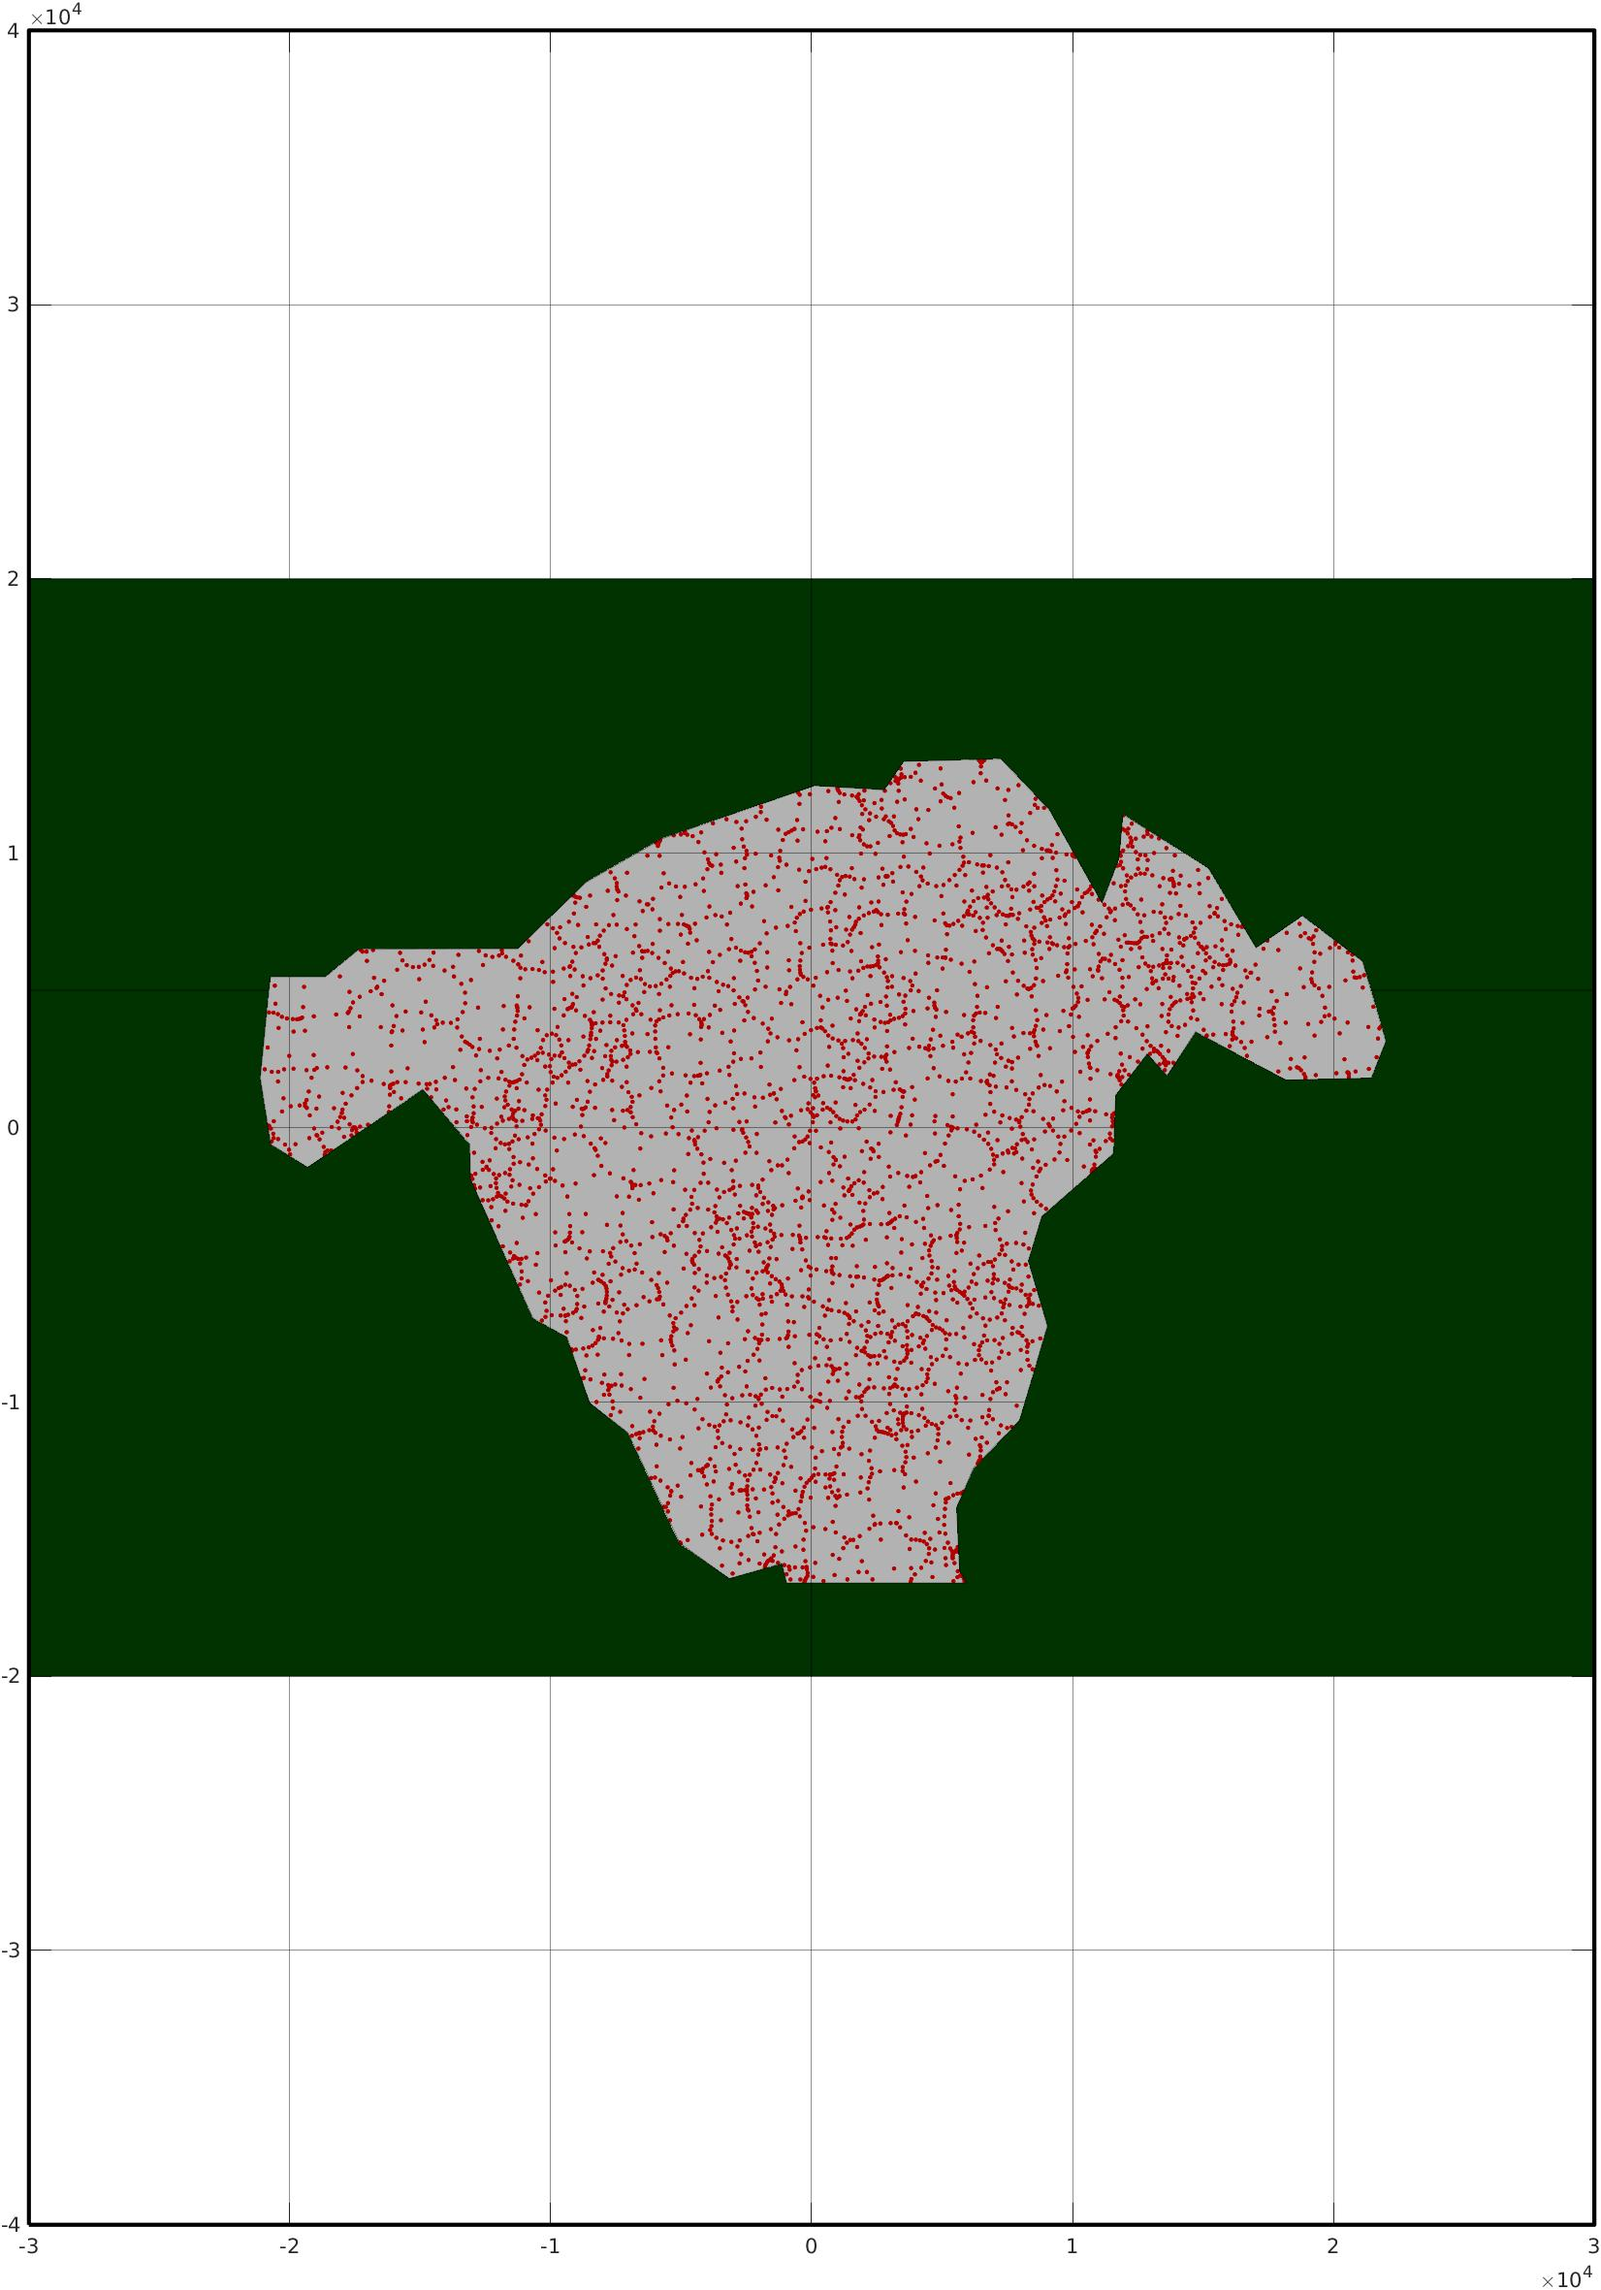
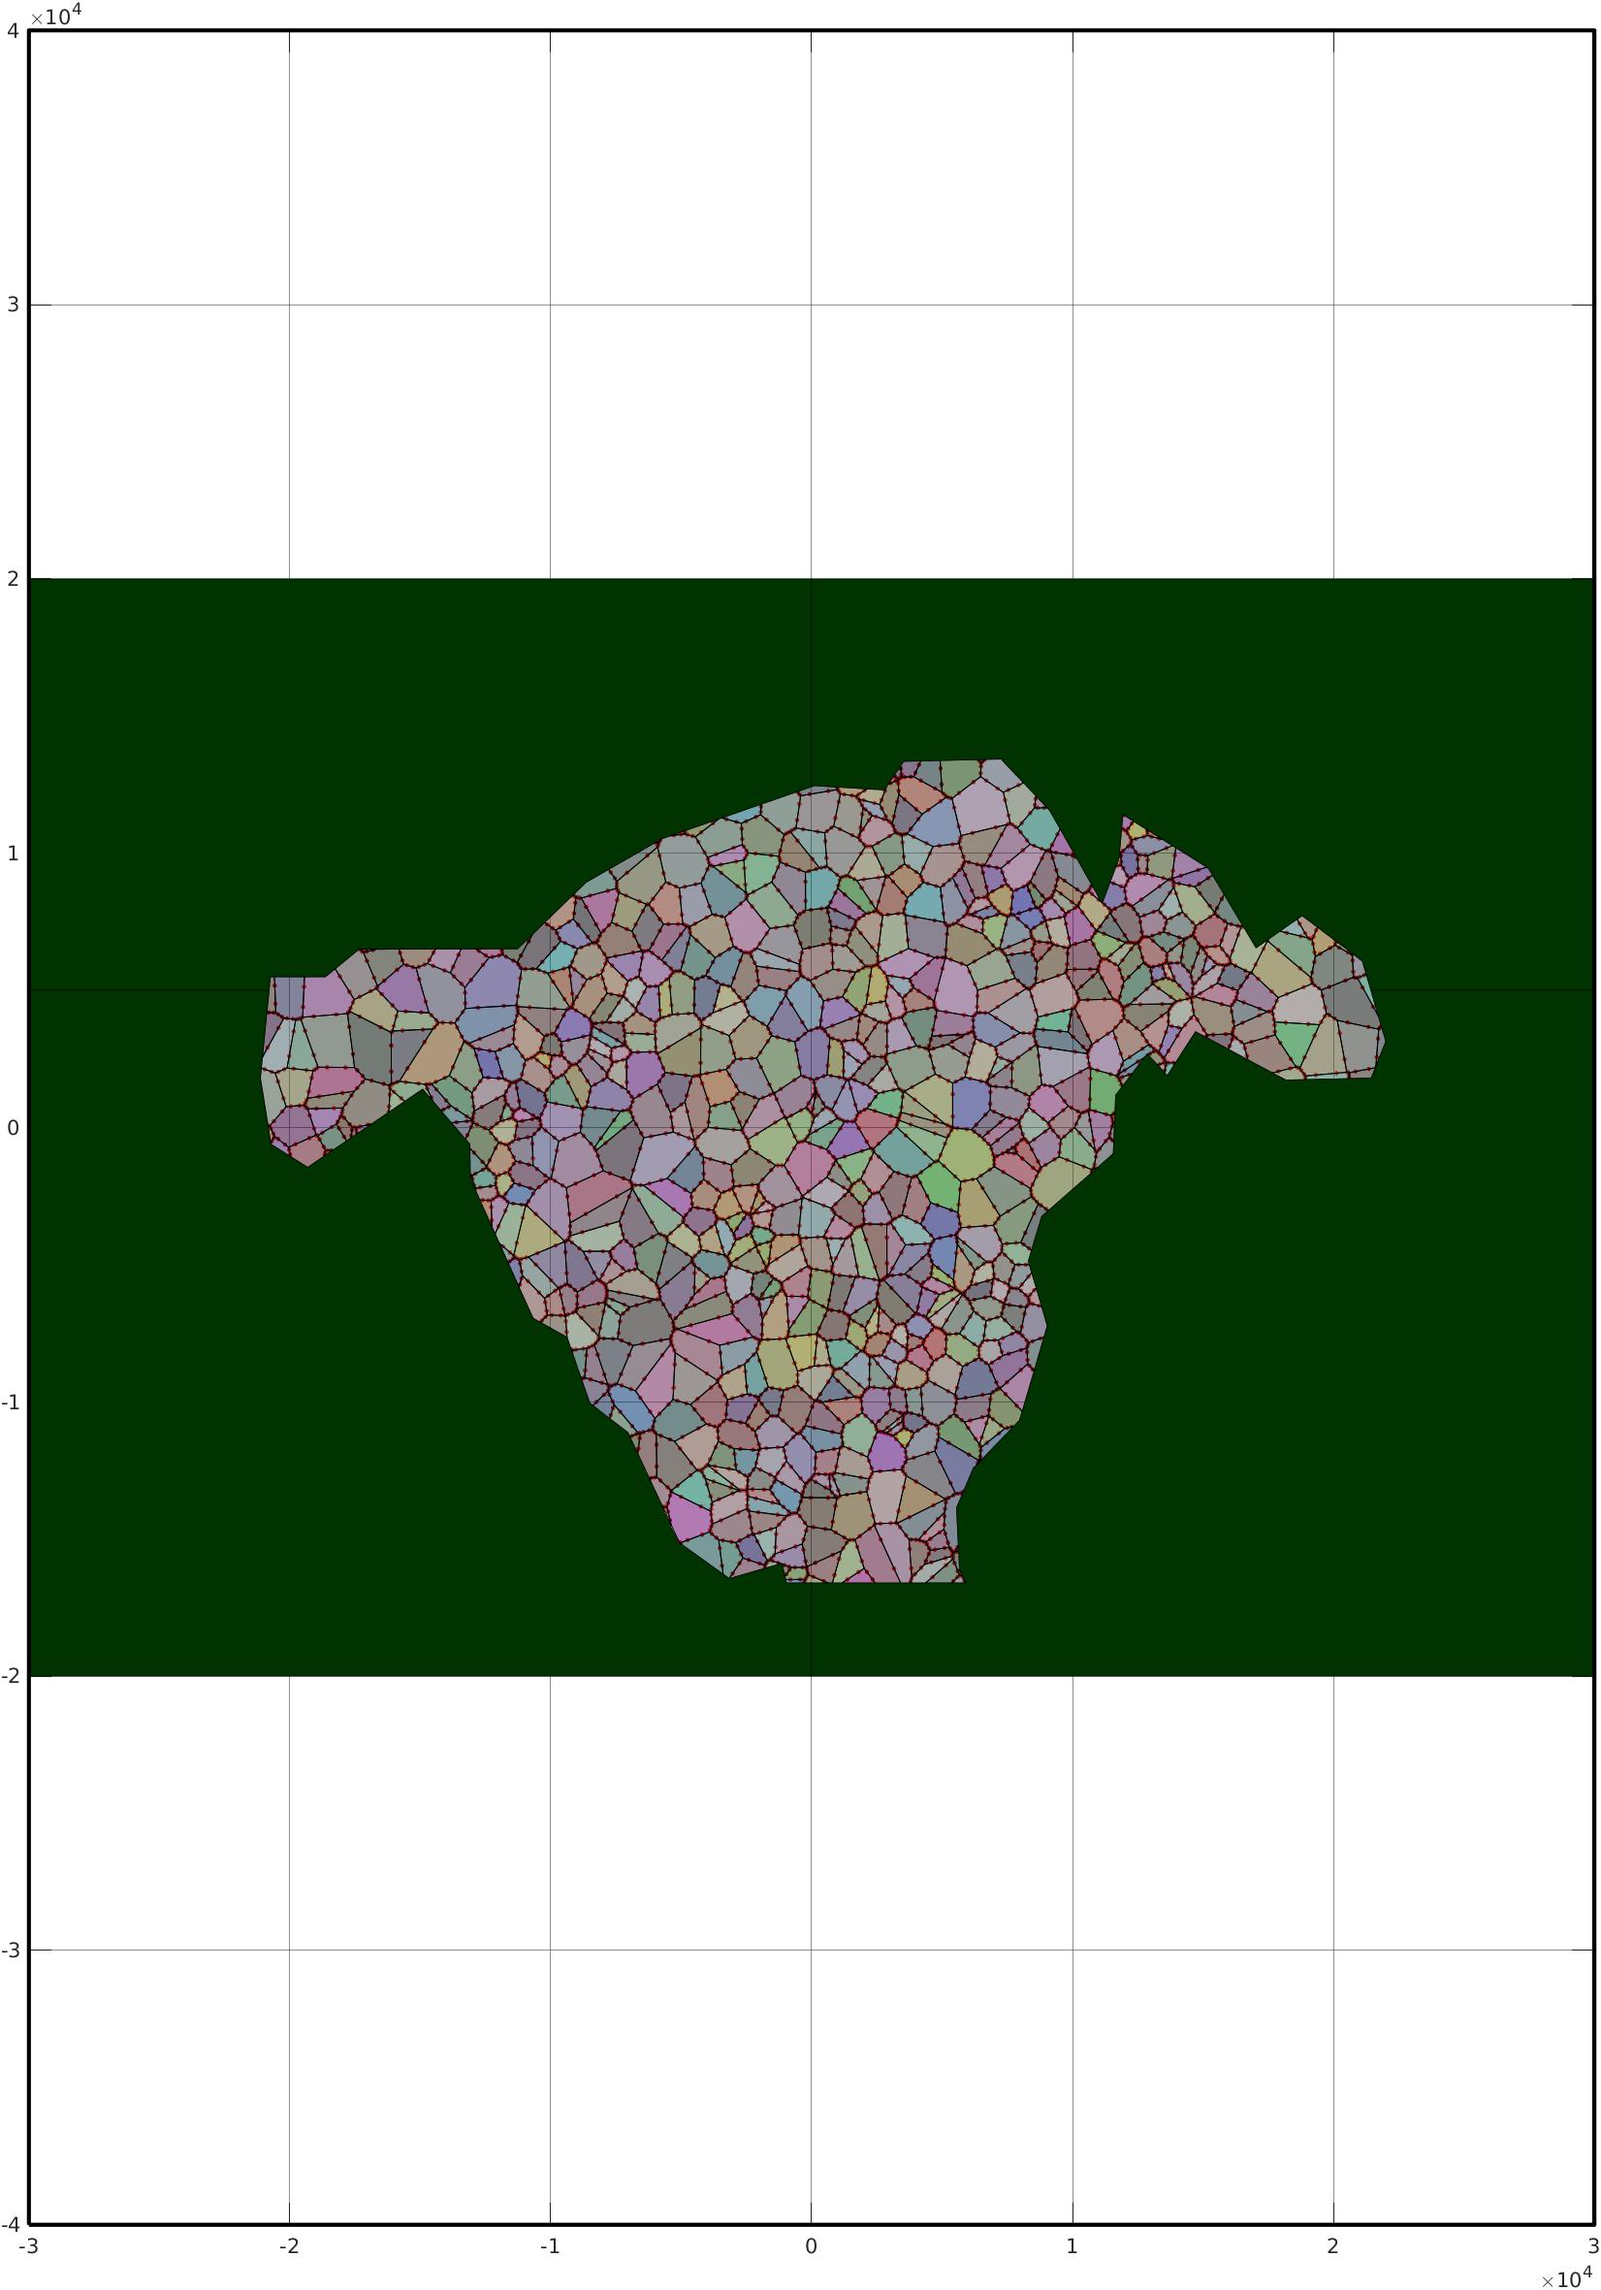
added distinguishable colors

Changed region(s): [[0.1545, 0.3092, 0.8649, 0.7111]]

diff --git a/plotting/plot_basic_bonds.m b/plotting/plot_basic_bonds.m
@@ -116,7 +116,7 @@ for iii = 1:length(Floes)
     poly(iii) = polyshape(Floes(iii).c_alpha'+[Floes(iii).Xi Floes(iii).Yi]);
 end
 count = 1;
-clear p
+%clear p
 % for ii = 1+Nbond:length(binsizes)
 %     if Lia(ii)
 %         Lia1 = ismember(bins,ii);
@@ -129,10 +129,10 @@ clear p
 plot(Xc,Yc,'r.','linewidth',3)
 % 
 hold on
-% colors = distinguishable_colors(length(p));
-% for ii = 1:length(p)
-%     plot(p(ii),'FaceColor',colors(ii,:) )
-% end
+colors = distinguishable_colors(length(poly));
+ for ii = 1:length(poly)
+     plot(poly(ii),'FaceColor',colors(ii,:) )
+ end
 
 plot(poly,'FaceColor','k','FaceAlpha',0.3,'EdgeColor',[1 1 1]*0.2,'linestyle','none');
 if Nbound>0

diff --git a/Subzero.m b/Subzero.m
@@ -307,9 +307,6 @@ while im_num<nSnapshots
 %            [fig] =plot_basic(fig, Time,Floe,ocean,c2_boundary_poly,Nb,PERIODIC);
             exportgraphics(fig,['./Floes_bnds/figs/' num2str(im_num,'%03.f') '.jpg']);
 
-            %plot fractures as a graph
-            [fractures_spatial] = plot_fracture_graph(fractures_spatial, Floe, ocean, c2_bounary_poly, Nb, Nbond, PERIODIC); 
-            exportgraphics(fractures_spatial, ['./Floes_bnds/fractures/' num2str(im_num, '%03.f') '.jpg']);
         end
         
 
